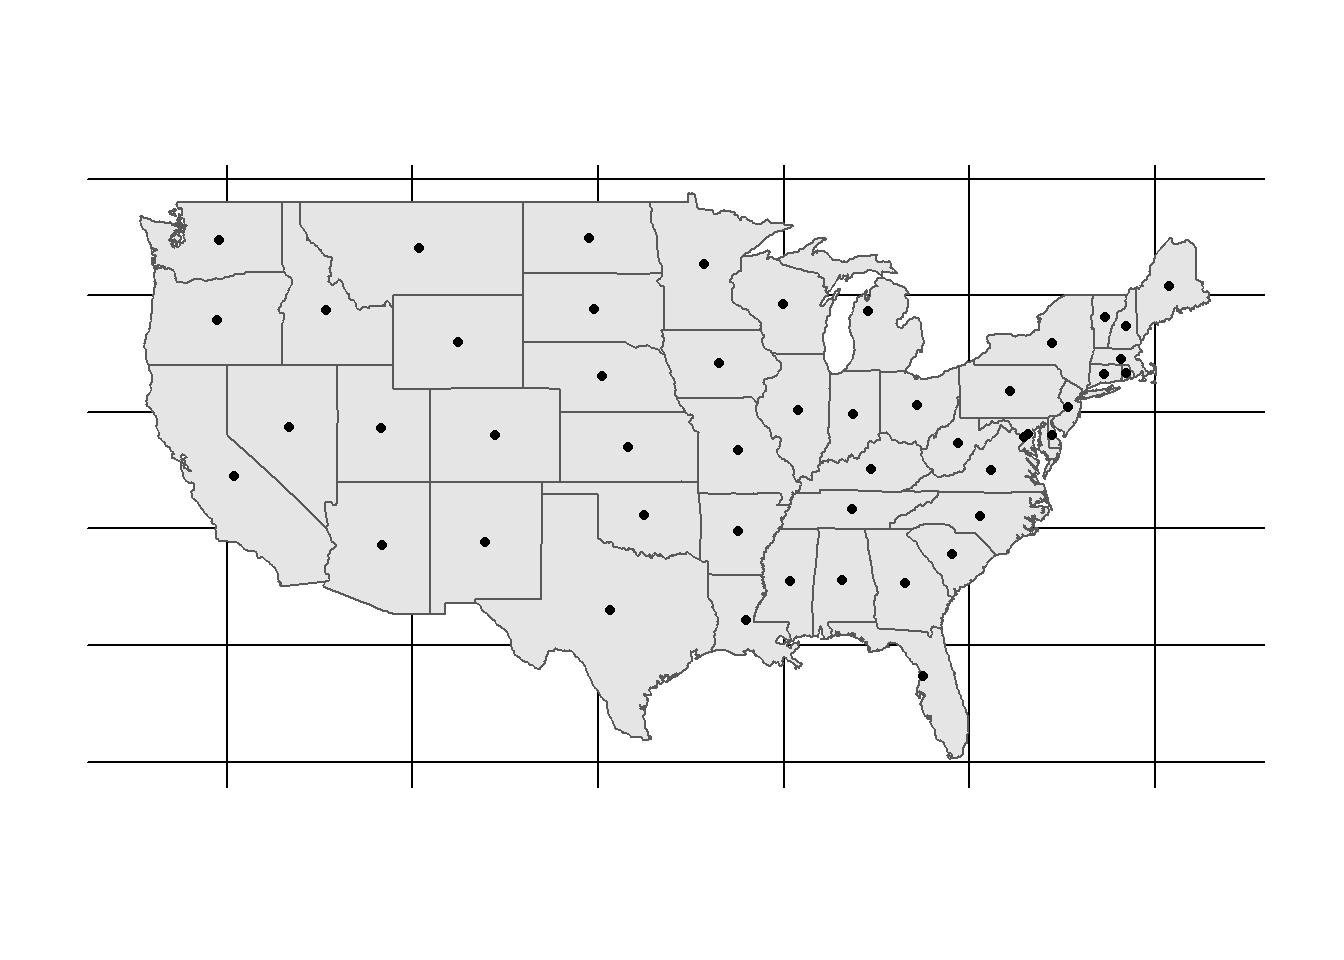
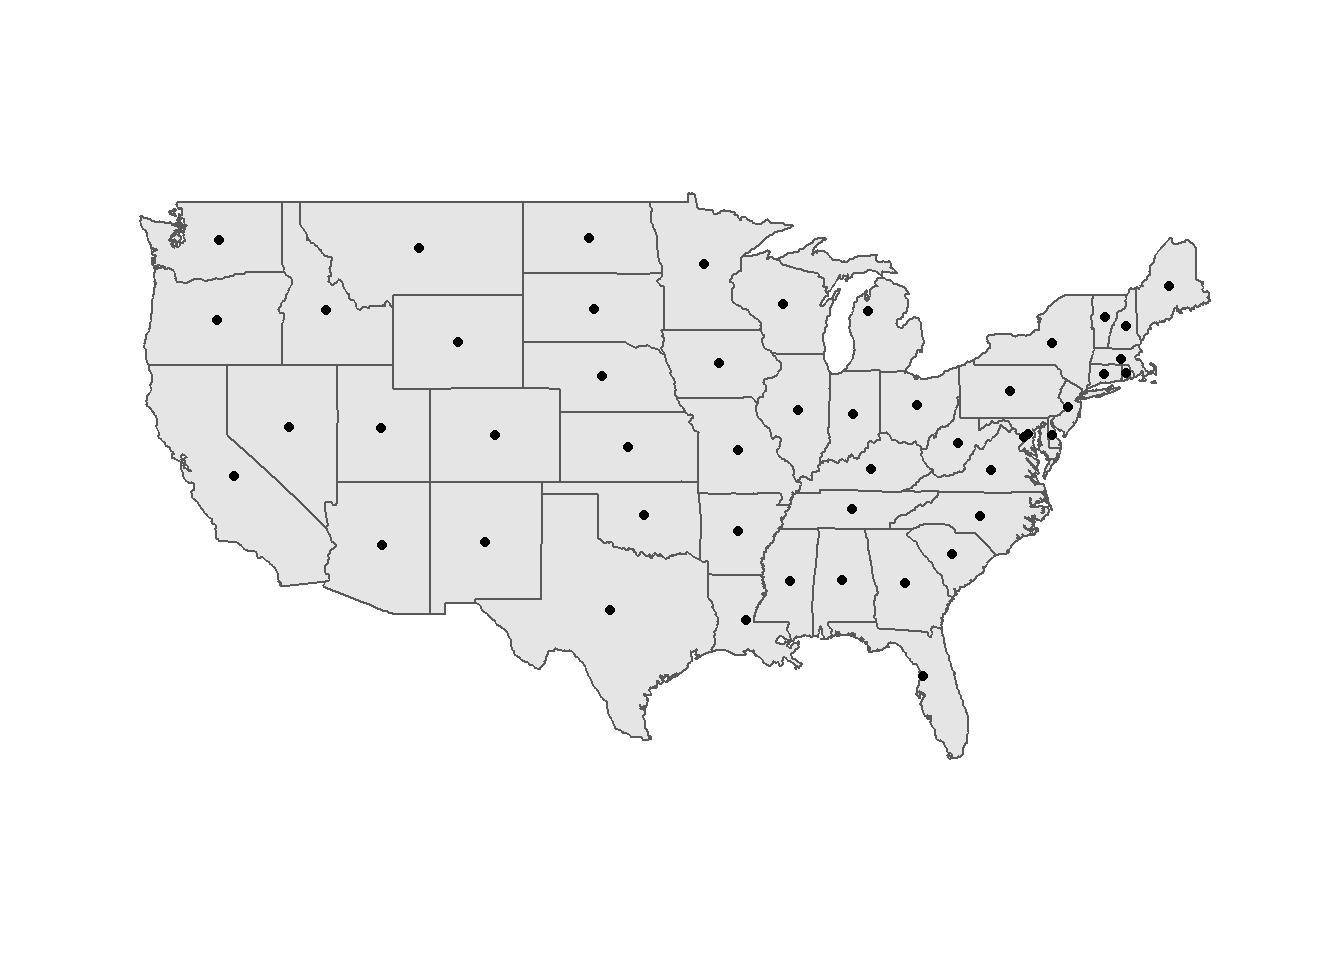
served site

diff --git a/content/post/2018-11-11-actblue-interstate-political-campaign-donations.html b/content/post/2018-11-11-actblue-interstate-political-campaign-donations.html
@@ -11,37 +11,14 @@ tags: []
 
 
 
-<pre class="r"><code>library(tidyverse)</code></pre>
-<pre><code>## -- Attaching packages ----------------------------------------------------------------------------------------- tidyverse 1.2.1 --</code></pre>
-<pre><code>## v ggplot2 3.1.0     v purrr   0.2.5
-## v tibble  1.4.2     v dplyr   0.7.8
-## v tidyr   0.8.2     v stringr 1.3.1
-## v readr   1.1.1     v forcats 0.3.0</code></pre>
-<pre><code>## -- Conflicts -------------------------------------------------------------------------------------------- tidyverse_conflicts() --
-## x dplyr::filter() masks stats::filter()
-## x dplyr::lag()    masks stats::lag()</code></pre>
-<pre class="r"><code>library(maps)</code></pre>
-<pre><code>## 
-## Attaching package: &#39;maps&#39;</code></pre>
-<pre><code>## The following object is masked from &#39;package:purrr&#39;:
-## 
-##     map</code></pre>
-<pre class="r"><code>library(sf)</code></pre>
-<pre><code>## Linking to GEOS 3.6.1, GDAL 2.2.3, PROJ 4.9.3</code></pre>
-<pre class="r"><code>library(rgeos)</code></pre>
-<pre><code>## rgeos version: 0.4-2, (SVN revision 581)
-##  GEOS runtime version: 3.6.1-CAPI-1.10.1 
-##  Linking to sp version: 1.3-1 
-##  Polygon checking: TRUE</code></pre>
-<pre class="r"><code>library(janitor)
+<pre class="r"><code>library(tidyverse)
+library(maps)
+library(sf)
+library(rgeos)
+library(janitor)
 library(ggrepel)
-library(tidygraph)</code></pre>
-<pre><code>## 
-## Attaching package: &#39;tidygraph&#39;</code></pre>
-<pre><code>## The following object is masked from &#39;package:stats&#39;:
-## 
-##     filter</code></pre>
-<pre class="r"><code>library(ggraph)
+library(tidygraph)
+library(ggraph)
 
 theme_set(theme_graph())</code></pre>
 <pre class="r"><code>states &lt;- st_as_sf(map(&quot;state&quot;, plot = FALSE, fill = TRUE))
@@ -60,37 +37,18 @@ head(states)</code></pre>
 ## 5 MULTIPOLYGON (((-102.0552 4...    colorado
 ## 6 MULTIPOLYGON (((-73.49902 4... connecticut</code></pre>
 <pre class="r"><code>states &lt;- cbind(states, st_coordinates(st_centroid(states)))</code></pre>
-<pre><code>## Warning in st_centroid.sf(states): st_centroid assumes attributes are
-## constant over geometries of x</code></pre>
-<pre><code>## Warning in st_centroid.sfc(st_geometry(x), of_largest_polygon =
-## of_largest_polygon): st_centroid does not give correct centroids for
-## longitude/latitude data</code></pre>
 <div id="state-abbreviations-from-httpswww.infoplease.comstate-abbreviations-and-state-postal-codes" class="section level1">
 <h1>state abbreviations from <a href="https://www.infoplease.com/state-abbreviations-and-state-postal-codes" class="uri">https://www.infoplease.com/state-abbreviations-and-state-postal-codes</a></h1>
 <pre class="r"><code>state_abbreviations &lt;- read_csv(&quot;https://raw.githubusercontent.com/conorotompkins/politics/master/data/state_abbreviations.csv&quot;) %&gt;% 
   clean_names() %&gt;% 
   mutate(state_district = tolower(state_district)) %&gt;% 
   rename(abbr = postal_code) %&gt;% 
-  select(-abbreviation)</code></pre>
-<pre><code>## Parsed with column specification:
-## cols(
-##   State_District = col_character(),
-##   Abbreviation = col_character(),
-##   `Postal Code` = col_character()
-## )</code></pre>
-<pre class="r"><code>states &lt;- states %&gt;% 
+  select(-abbreviation)
+
+states &lt;- states %&gt;% 
   left_join(state_abbreviations, by = c(&quot;ID&quot; = &quot;state_district&quot;)) %&gt;% 
   arrange(abbr)</code></pre>
 <pre class="r"><code>df &lt;- read_csv(&quot;https://raw.githubusercontent.com/PublicI/actblue-analysis/master/data/actblue_states.csv&quot;)</code></pre>
-<pre><code>## Warning: Missing column names filled in: &#39;X1&#39; [1]</code></pre>
-<pre><code>## Parsed with column specification:
-## cols(
-##   X1 = col_integer(),
-##   contributor_state = col_character(),
-##   recipient_state = col_character(),
-##   count = col_integer(),
-##   sum = col_double()
-## )</code></pre>
 <pre class="r"><code>df %&gt;% 
   semi_join(states, by = c(&quot;contributor_state&quot; = &quot;abbr&quot;)) %&gt;% 
   semi_join(states, by = c(&quot;recipient_state&quot; = &quot;abbr&quot;)) -&gt; df
@@ -112,7 +70,8 @@ df %&gt;%
 <pre class="r"><code>states %&gt;% 
   ggplot() +
   geom_sf() +
-  geom_point(aes(X, Y))</code></pre>
+  geom_point(aes(X, Y)) +
+  theme(panel.grid.major = element_line(colour = &#39;transparent&#39;))</code></pre>
 <p><img src="/post/2018-11-11-actblue-interstate-political-campaign-donations_files/figure-html/unnamed-chunk-8-1.png" width="672" /></p>
 <pre class="r"><code>df %&gt;%
   select(-`X1`) %&gt;% 
@@ -160,43 +119,5 @@ manual_layout &lt;- create_layout(graph = g,
   theme(panel.grid.major = element_line(colour = &#39;transparent&#39;)) -&gt; p
 
 p</code></pre>
-<pre><code>## Warning in grid.Call(C_textBounds, as.graphicsAnnot(x$label), x$x, x$y, :
-## font family not found in Windows font database
-
-## Warning in grid.Call(C_textBounds, as.graphicsAnnot(x$label), x$x, x$y, :
-## font family not found in Windows font database
-
-## Warning in grid.Call(C_textBounds, as.graphicsAnnot(x$label), x$x, x$y, :
-## font family not found in Windows font database
-
-## Warning in grid.Call(C_textBounds, as.graphicsAnnot(x$label), x$x, x$y, :
-## font family not found in Windows font database
-
-## Warning in grid.Call(C_textBounds, as.graphicsAnnot(x$label), x$x, x$y, :
-## font family not found in Windows font database
-
-## Warning in grid.Call(C_textBounds, as.graphicsAnnot(x$label), x$x, x$y, :
-## font family not found in Windows font database
-
-## Warning in grid.Call(C_textBounds, as.graphicsAnnot(x$label), x$x, x$y, :
-## font family not found in Windows font database
-
-## Warning in grid.Call(C_textBounds, as.graphicsAnnot(x$label), x$x, x$y, :
-## font family not found in Windows font database
-
-## Warning in grid.Call(C_textBounds, as.graphicsAnnot(x$label), x$x, x$y, :
-## font family not found in Windows font database
-
-## Warning in grid.Call(C_textBounds, as.graphicsAnnot(x$label), x$x, x$y, :
-## font family not found in Windows font database
-
-## Warning in grid.Call(C_textBounds, as.graphicsAnnot(x$label), x$x, x$y, :
-## font family not found in Windows font database
-
-## Warning in grid.Call(C_textBounds, as.graphicsAnnot(x$label), x$x, x$y, :
-## font family not found in Windows font database
-
-## Warning in grid.Call(C_textBounds, as.graphicsAnnot(x$label), x$x, x$y, :
-## font family not found in Windows font database</code></pre>
 <p><img src="/post/2018-11-11-actblue-interstate-political-campaign-donations_files/figure-html/unnamed-chunk-12-1.png" width="672" /></p>
 </div>
